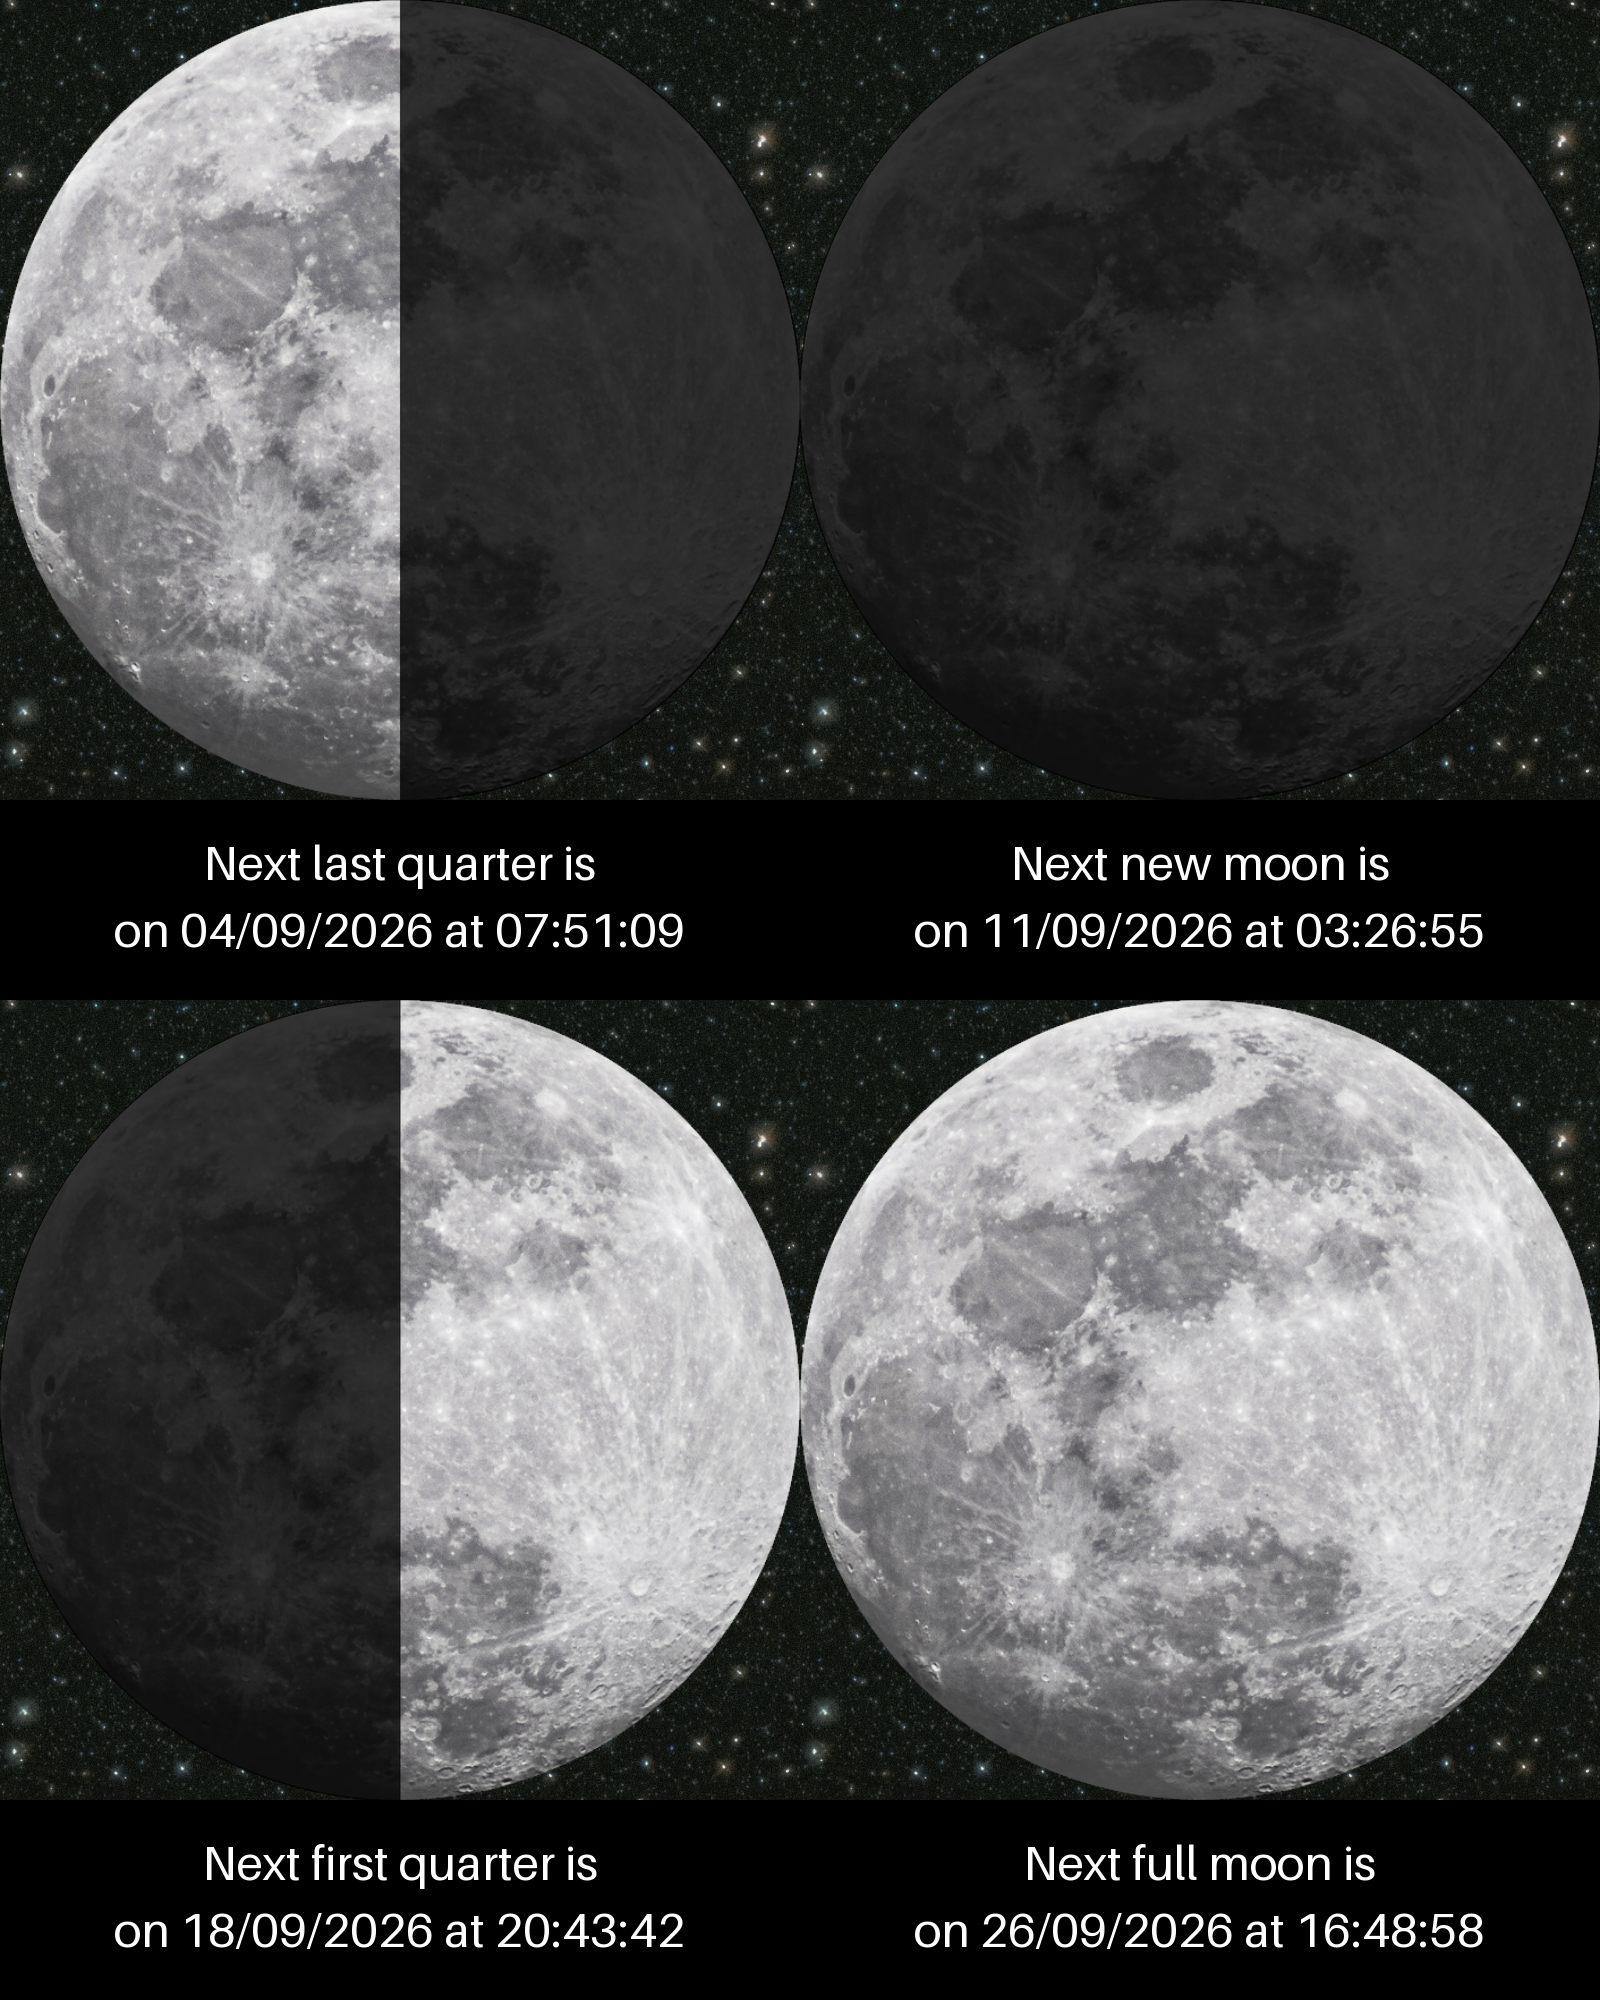
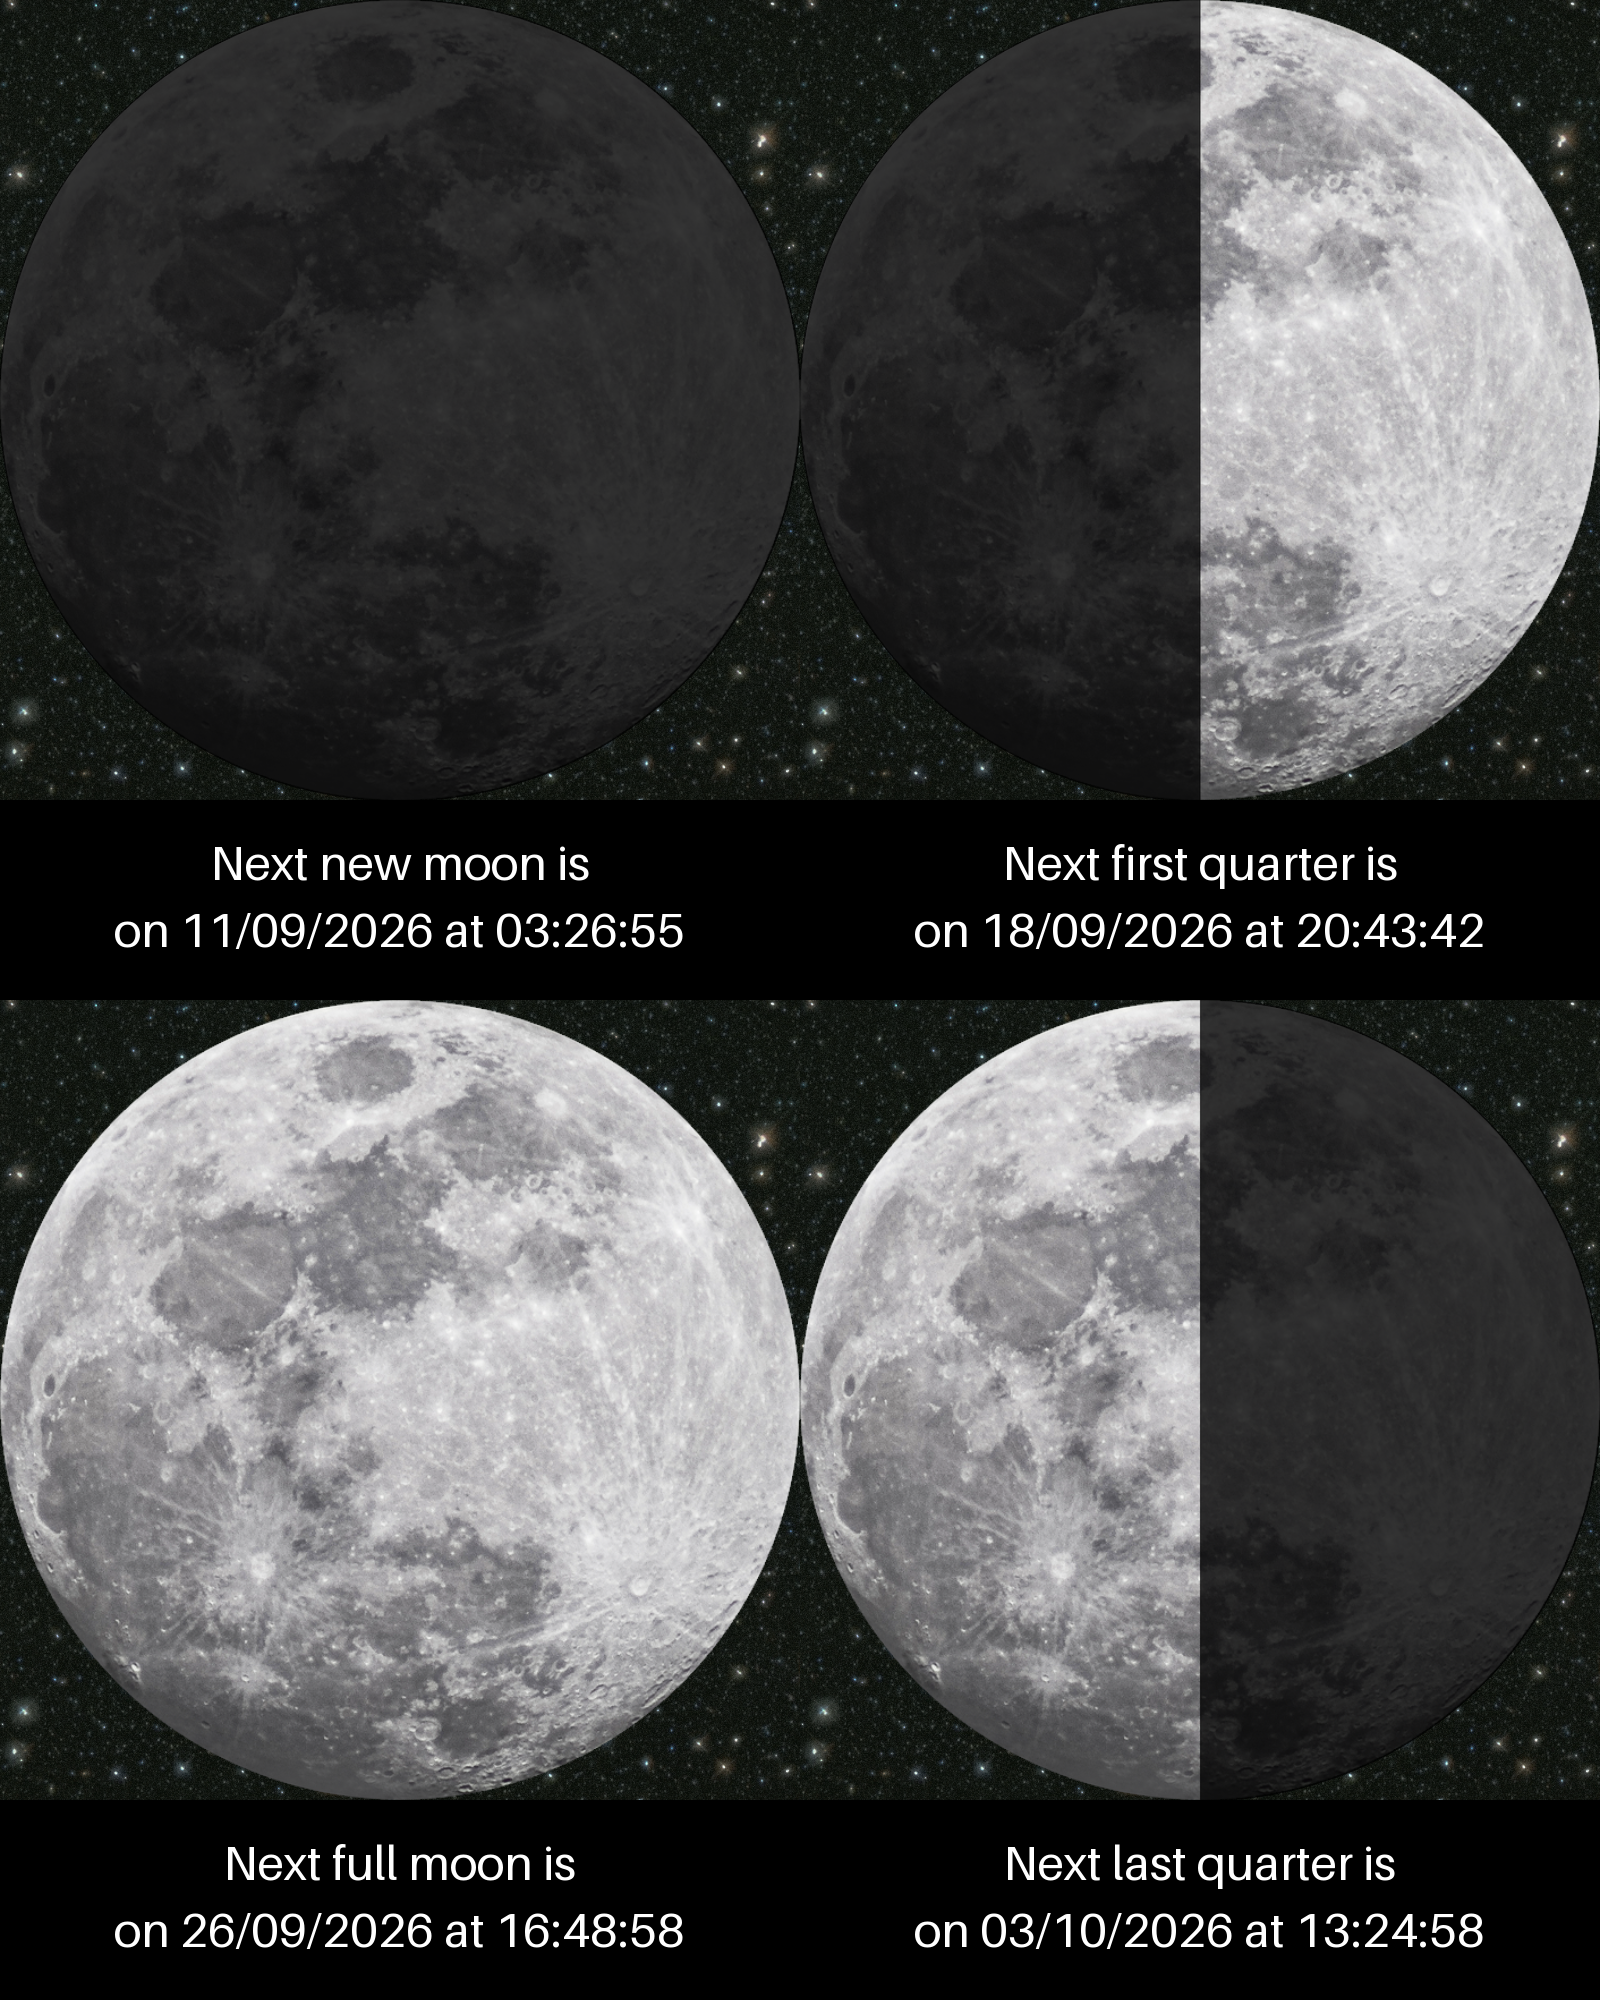
Update gallery image from workflow

diff --git a/README.md b/README.md
@@ -1,4 +1,4 @@
-### Current Moon Phase: 🌗 Last Quarter 50.28%
+### Current Moon Phase: 🌘 Waning Crescent 47.97%
 ![Moon Phase](moonphase.png)
 ### Next Key Phases
 ![Gallery](gallery.png)
